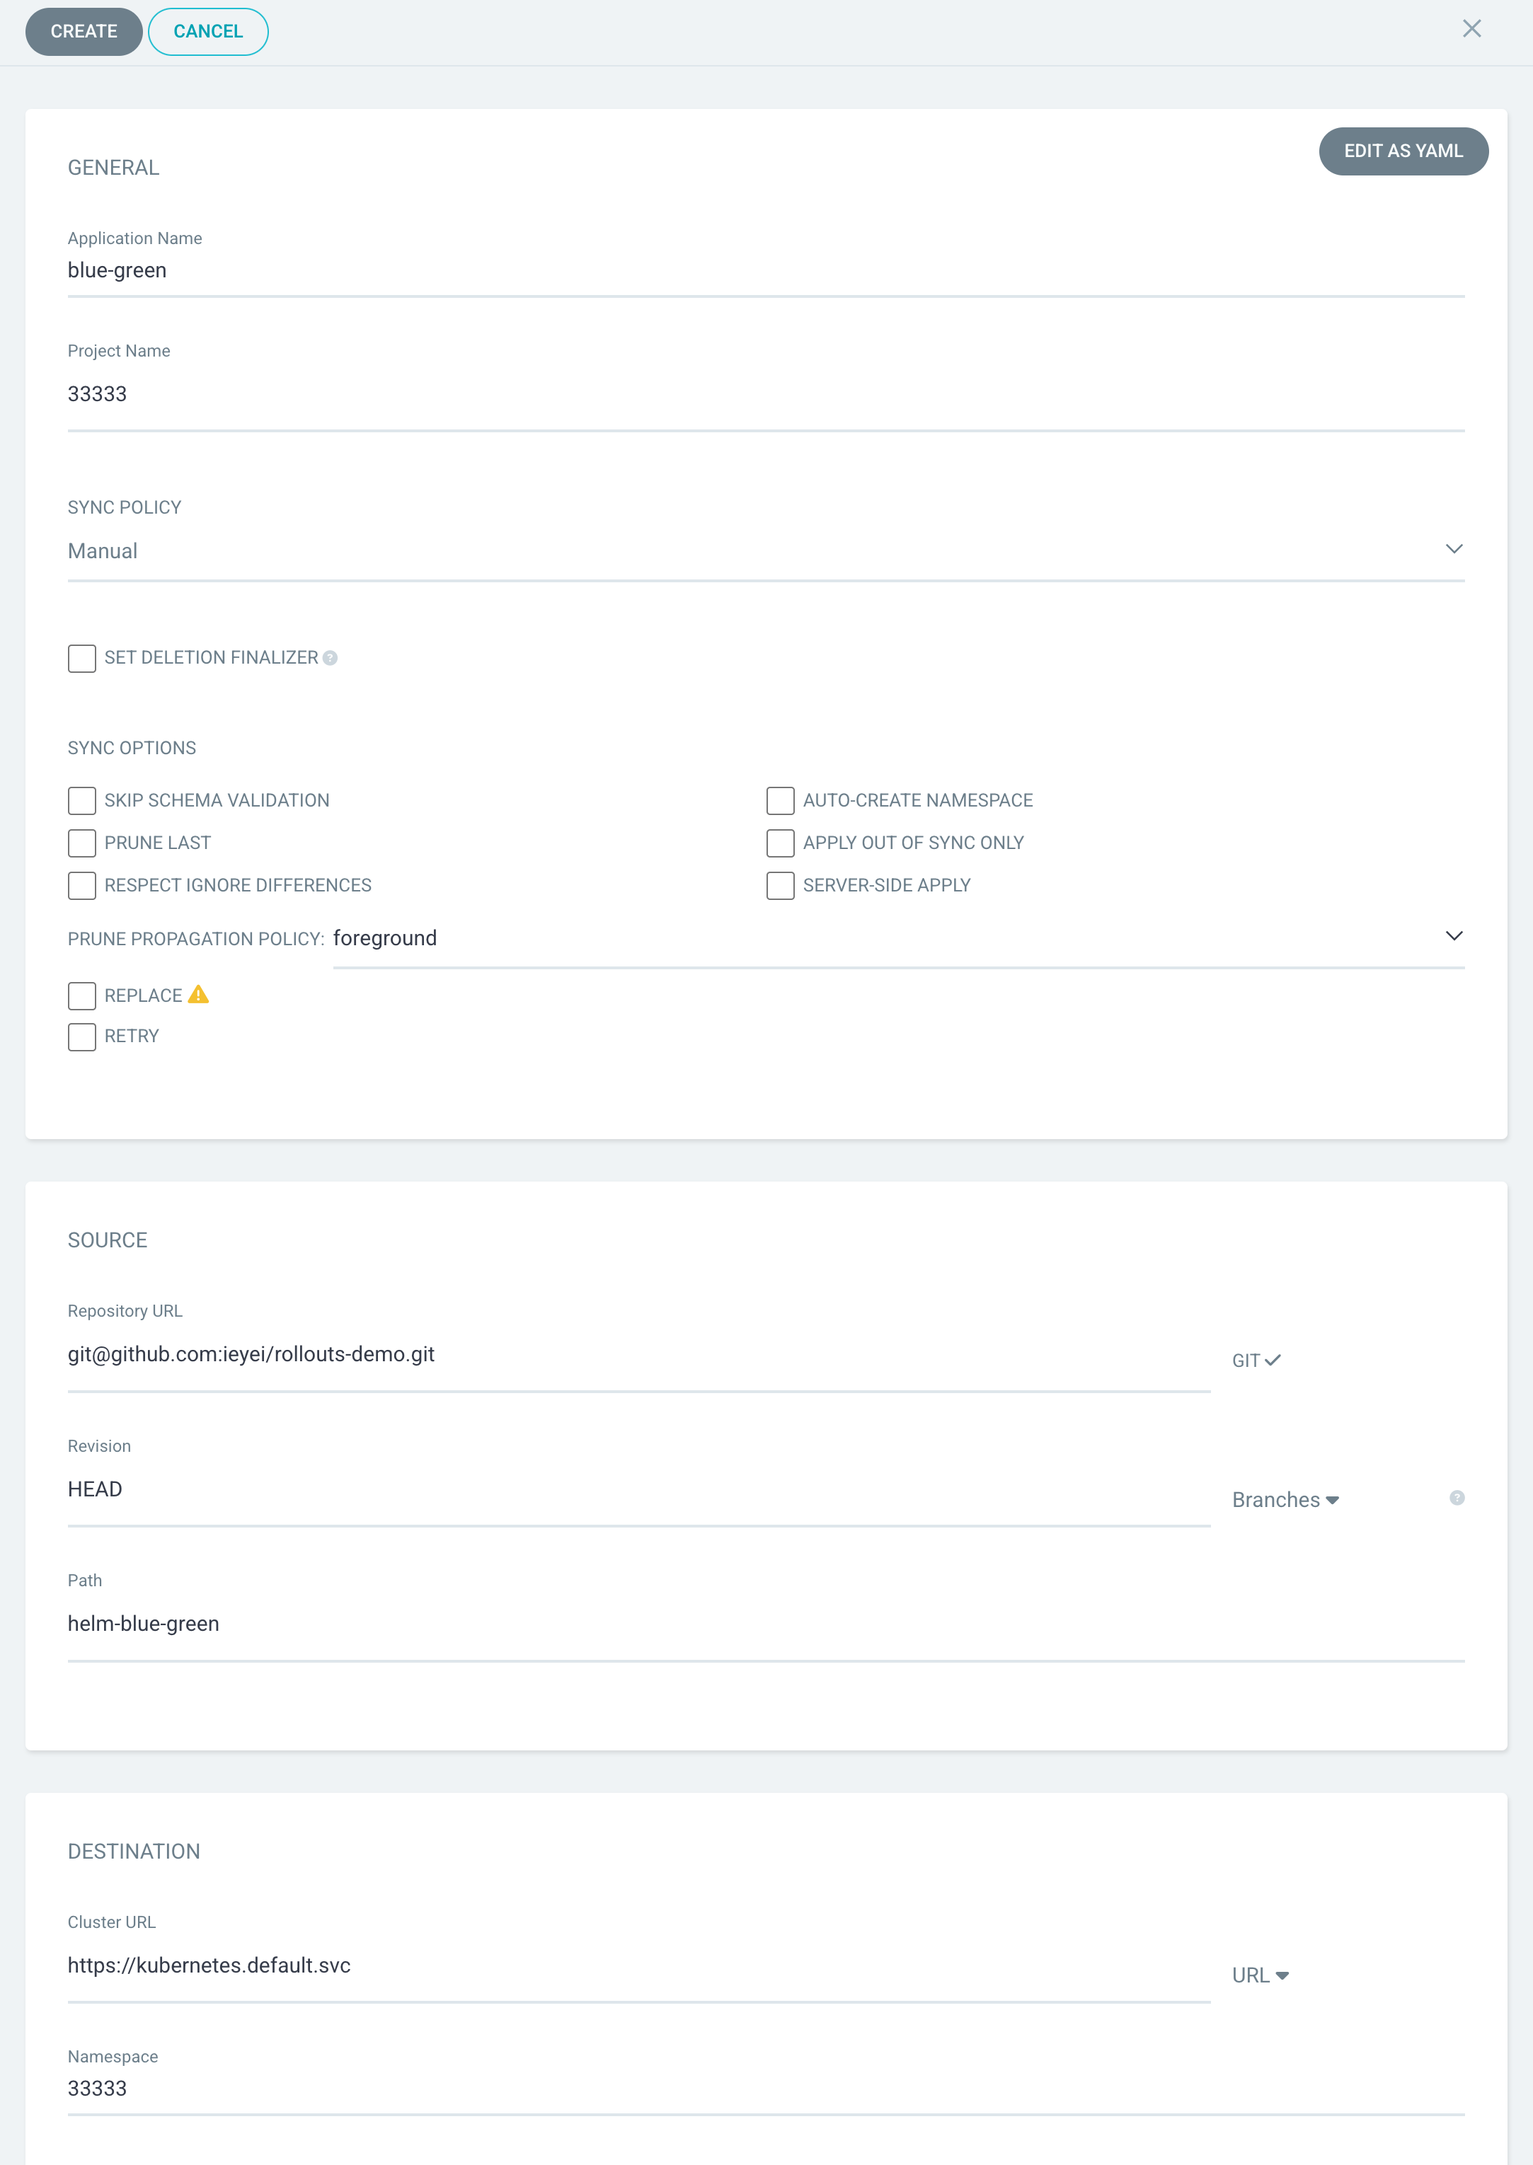
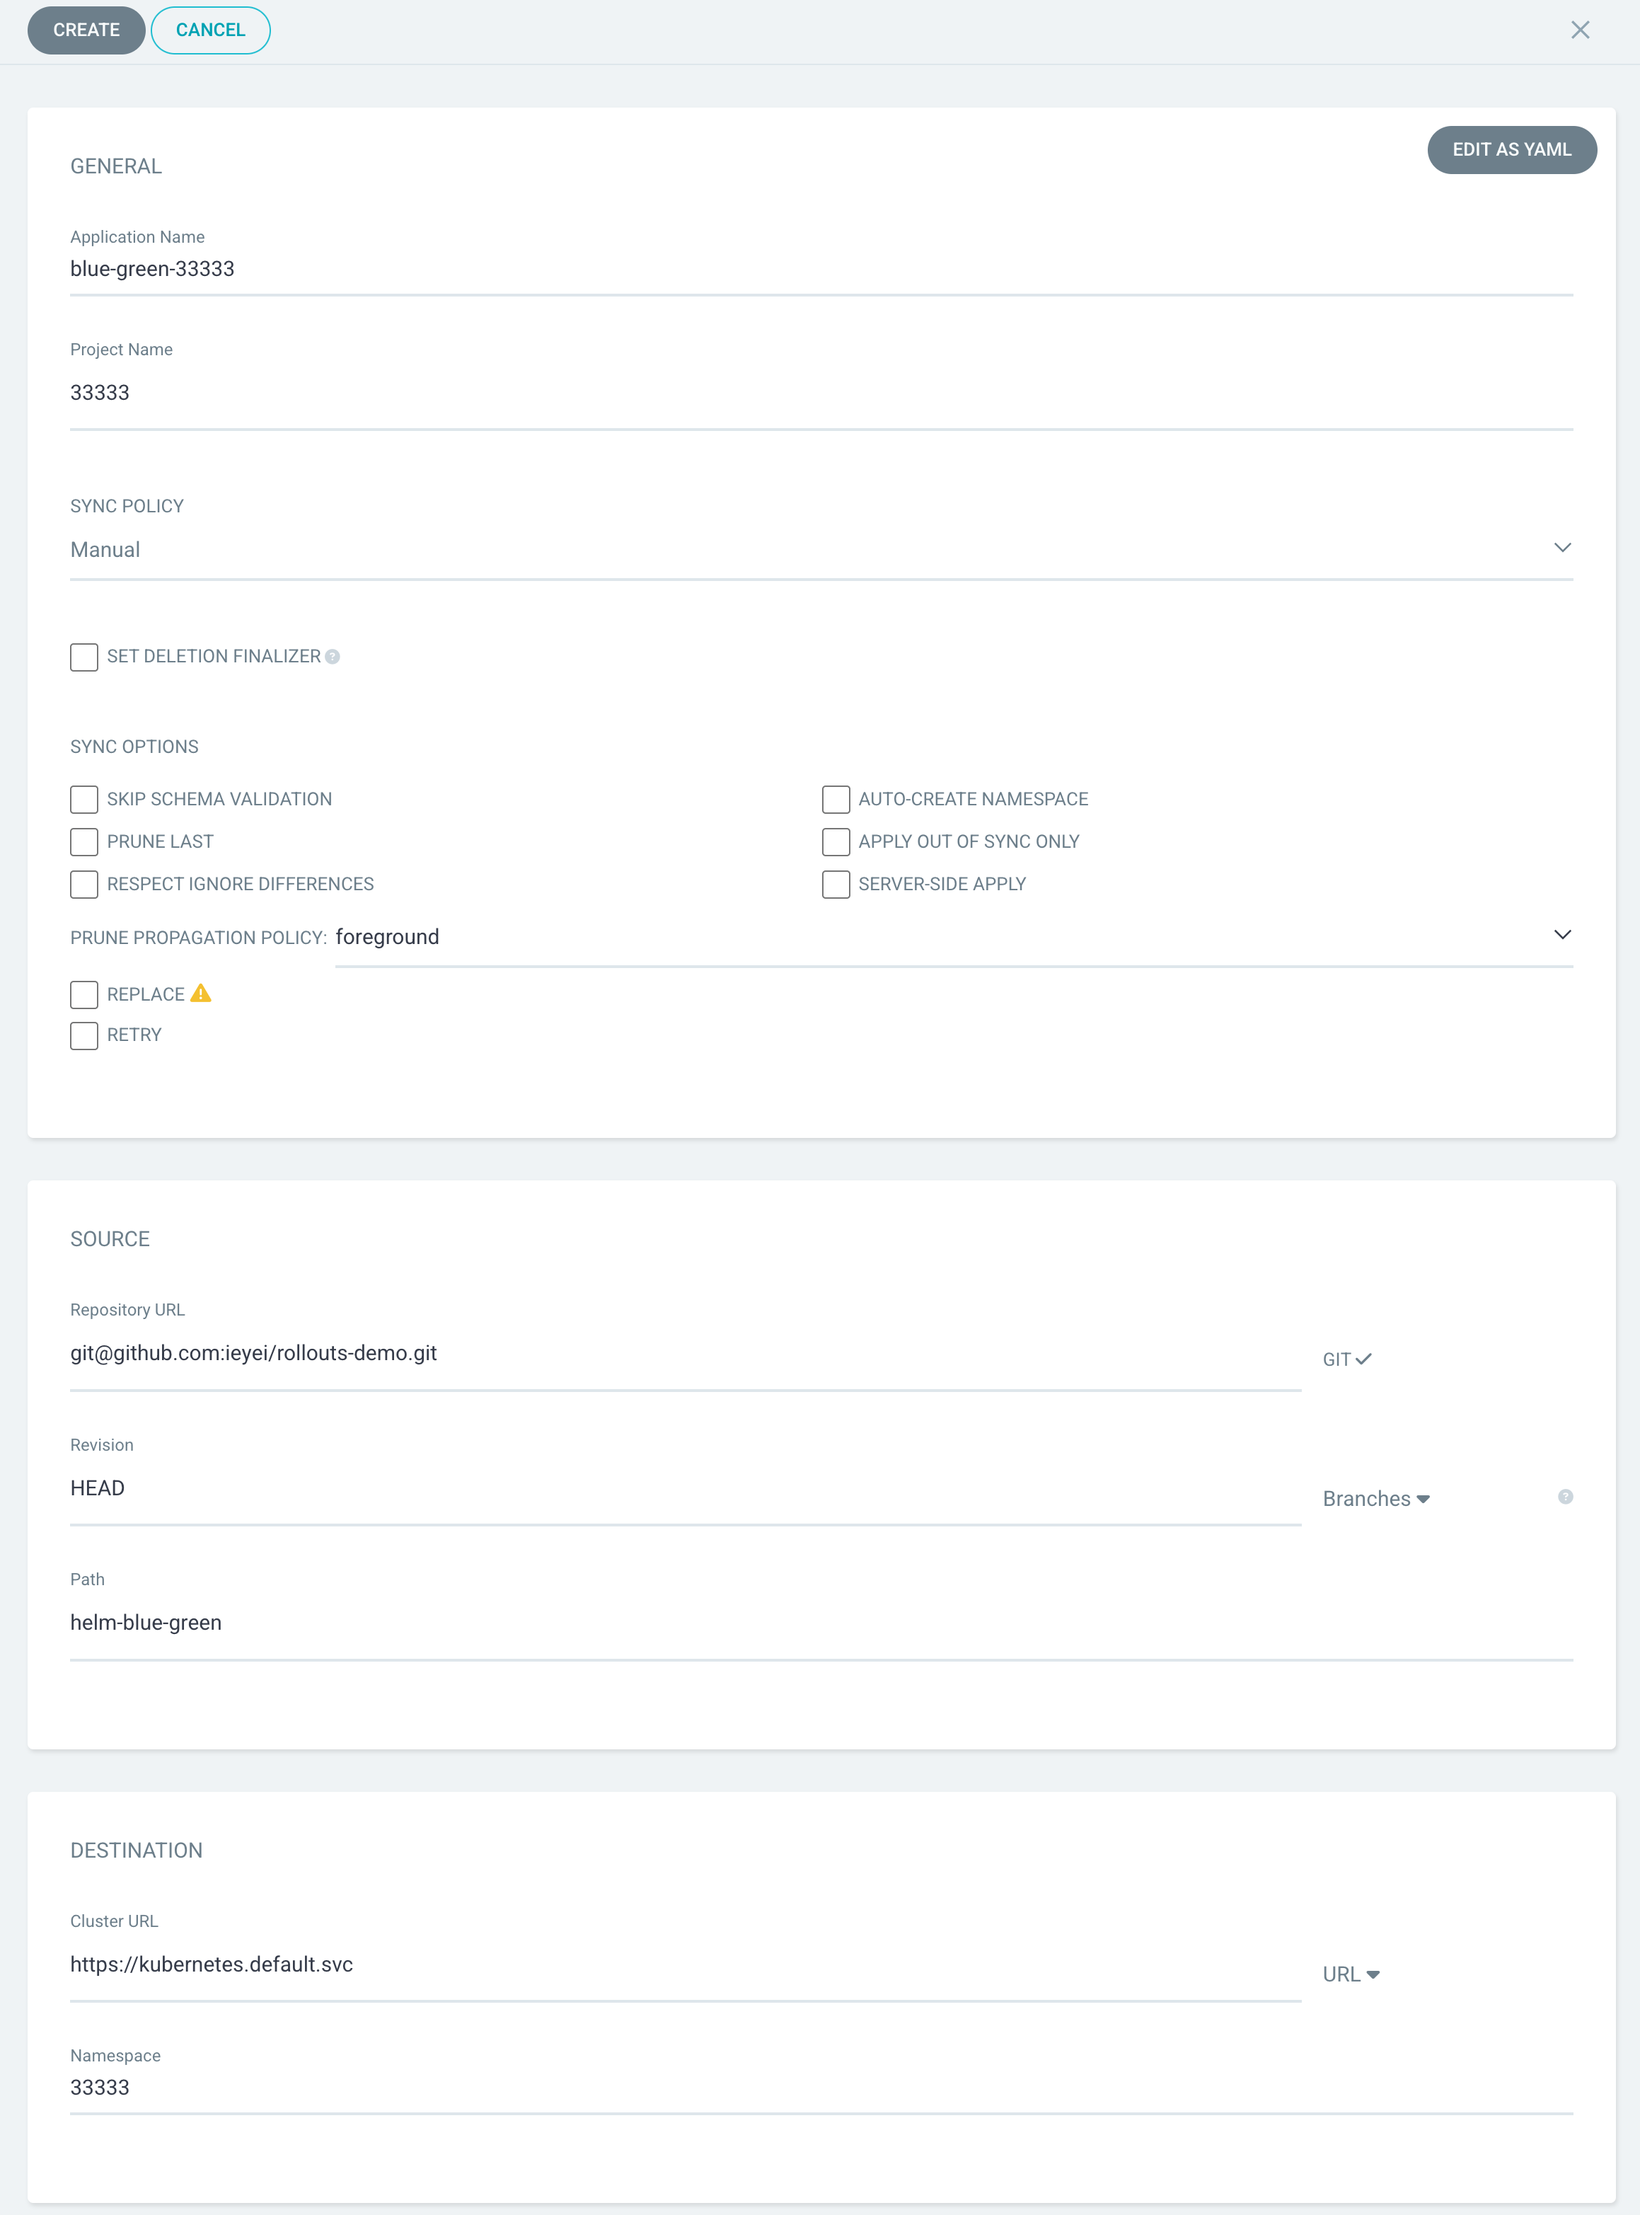
bug fix

diff --git a/docs/7-2-argocd.md b/docs/7-2-argocd.md
@@ -43,7 +43,7 @@ echo $MY_ID
 
 ```
 mspmanager:~/environment $ echo $MY_ID
-22222
+33333
 ```
 
 ### 0-3. namespace 생성
@@ -56,6 +56,18 @@ kubectl create ns $MY_ID
 ```bash
 kubectl config set-context --current --namespace $MY_ID
 ```
+
+### 0-5. Kubectl Plugin 설치
+kubectl 플러그인은 명령줄에서 롤아웃을 관리하고 시각화하는 데 편리합니다.
+```bash
+curl -LO https://github.com/argoproj/argo-rollouts/releases/latest/download/kubectl-argo-rollouts-linux-amd64
+
+chmod +x ./kubectl-argo-rollouts-linux-amd64
+
+sudo mv ./kubectl-argo-rollouts-linux-amd64 /usr/local/bin/kubectl-argo-rollouts
+```
+
+
 
 <br>
 
@@ -381,14 +393,14 @@ cat ~/.ssh/id_ed25519
 
 ** [입력]**
 
-> | 항목                         | 내용                             | 액션                                   |
-> | ---------------------------- | -------------------------------- | -------------------------------------- |
-> | ➕ Application Name          | `rollouts-demo-<<사번>>`                  | Copy & Paste                    |
-> | ➕ Project Name              | `<<나의 Project>>`               | 윗챕터에서 만든 프로젝트를 선택합니다. |
+> | 항목                         | 내용                               | 액션                                   |
+> | ---------------------------- |----------------------------------| -------------------------------------- |
+> | ➕ Application Name          | `rollouts-demo-<<사번>>`           | Copy & Paste                    |
+> | ➕ Project Name              | `<<나의 Project>>`                 | 윗챕터에서 만든 프로젝트를 선택합니다. |
 > | ➕ SOURCE > Repo url         | `<<rollouts-demo repo url>>`     | 드롭박스 선택                        |
-> | ➕ SOURCE > Path             | `.`                              | Copy & Paste                    |
+> | ➕ SOURCE > Path             | `canary`                         | Copy & Paste                    |
 > | ➕ DESTINATION > Cluster URL | `https://kubernetes.default.svc` | 드롭박스 선택                        |
-> | ➕ DESTINATION > Namespace   | `<<사번>>`                       | Copy & Paste                    |
+> | ➕ DESTINATION > Namespace   | `<<사번>>`                         | Copy & Paste                    |
 
 ![](../images/253-1.png)
 
@@ -573,7 +585,8 @@ argocd ui로 promote 진행 확인
 Yellow 버전으로 변경된 사항 확인
 ![](../images/231-3.png)
 
-
+### Canary application 삭제
+![](../images/231-4.png)
 
 ## 9. Argo Rollout Blue Green 배포
 
@@ -817,14 +830,14 @@ git push
 
 ### Application 등록  
 입력 항목
-> | 항목                              | 내용                            |
-> |---------------------------------|-------------------------------|
-> | ➕ Application Name              | `blue-green`                     |
-> | ➕ Project Name                  | `<<나의 Project>>`              |
-> | ➕ Repository URL                | `<<rollouts-demo repo의 url>>` |
-> | ➕ Path                          | `helm-blue-green`              |
-> | ➕ Cluster URL                   | `https://kubernetes.default.svc`|
-> | ➕ Namespace                     | `<< My_ID >>`|
+> | 항목                              | 내용                               |
+> |---------------------------------|----------------------------------|
+> | ➕ Application Name              | `blue-green-<<사번>>`              |
+> | ➕ Project Name                  | `<<나의 Project>>`                 |
+> | ➕ Repository URL                | `<<rollouts-demo repo의 url>>`    |
+> | ➕ Path                          | `helm-blue-green`                |
+> | ➕ Cluster URL                   | `https://kubernetes.default.svc` |
+> | ➕ Namespace                     | `<< My_ID >>`                    |
 
 
 ![](../images/255.png)
@@ -839,10 +852,10 @@ Ingress 화살표 클릭
 
 cloud9 에서 rollout 확인
 ```bash
-kubectl argo rollouts get rollout blue-green-helm-guestbook
+kubectl argo rollouts get rollout blue-green-$MY_ID-helm-guestbook
 ```
 ```bash
-Name:            blue-green-helm-guestbook
+Name:            blue-green-33333-helm-guestbook
 Namespace:       33333
 Status:          ✔ Healthy
 Strategy:        BlueGreen
@@ -855,10 +868,10 @@ Replicas:
   Available:     1
 
 NAME                                                   KIND        STATUS     AGE   INFO
-⟳ blue-green-helm-guestbook                            Rollout     ✔ Healthy  8m7s  
+⟳ blue-green-33333-helm-guestbook                            Rollout     ✔ Healthy  8m7s  
 └──# revision:1                                                                     
-   └──⧉ blue-green-helm-guestbook-6c7fb8b69d           ReplicaSet  ✔ Healthy  8m7s  stable,active
-      └──□ blue-green-helm-guestbook-6c7fb8b69d-m2vh6  Pod         ✔ Running  8m7s  ready:1/1
+   └──⧉ blue-green-33333-helm-guestbook-6c7fb8b69d           ReplicaSet  ✔ Healthy  8m7s  stable,active
+      └──□ blue-green-33333-helm-guestbook-6c7fb8b69d-m2vh6  Pod         ✔ Running  8m7s  ready:1/1
 
 ```
 
@@ -878,11 +891,11 @@ SYNC > SYNCHRONIZE 클릭
 
 cloud9 에서 rollout 확인
 ```bash
-kubectl argo rollouts get rollout blue-green-helm-guestbook
+kubectl argo rollouts get rollout blue-green-$MY_ID-helm-guestbook
 ```
 
 ```bash
-Name:            blue-green-helm-guestbook
+Name:            blue-green-33333-helm-guestbook
 Namespace:       33333
 Status:          ॥ Paused
 Message:         BlueGreenPause
@@ -897,13 +910,13 @@ Replicas:
   Available:     1
 
 NAME                                                   KIND        STATUS     AGE  INFO
-⟳ blue-green-helm-guestbook                            Rollout     ॥ Paused   10m  
+⟳ blue-green-33333-helm-guestbook                            Rollout     ॥ Paused   10m  
 ├──# revision:2                                                                    
-│  └──⧉ blue-green-helm-guestbook-5fdf65765f           ReplicaSet  ✔ Healthy  35s  preview
-│     └──□ blue-green-helm-guestbook-5fdf65765f-bwmn9  Pod         ✔ Running  35s  ready:1/1
+│  └──⧉ blue-green-33333-helm-guestbook-5fdf65765f           ReplicaSet  ✔ Healthy  35s  preview
+│     └──□ blue-green-33333-helm-guestbook-5fdf65765f-bwmn9  Pod         ✔ Running  35s  ready:1/1
 └──# revision:1                                                                    
-   └──⧉ blue-green-helm-guestbook-6c7fb8b69d           ReplicaSet  ✔ Healthy  10m  stable,active
-      └──□ blue-green-helm-guestbook-6c7fb8b69d-m2vh6  Pod         ✔ Running  10m  ready:1/1
+   └──⧉ blue-green-33333-helm-guestbook-6c7fb8b69d           ReplicaSet  ✔ Healthy  10m  stable,active
+      └──□ blue-green-33333-helm-guestbook-6c7fb8b69d-m2vh6  Pod         ✔ Running  10m  ready:1/1
 ```
 
 Promote
@@ -913,11 +926,11 @@ rollout > Promote-Full > OK
 
 cloud9 에서 rollout 확인
 ```bash
-kubectl argo rollouts get rollout blue-green-helm-guestbook
+kubectl argo rollouts get rollout blue-green-$MY_ID-helm-guestbook
 ```
 
 ```bash
-Name:            blue-green-helm-guestbook
+Name:            blue-green-33333-helm-guestbook
 Namespace:       33333
 Status:          ✔ Healthy
 Strategy:        BlueGreen
@@ -931,13 +944,13 @@ Replicas:
   Available:     1
 
 NAME                                                   KIND        STATUS     AGE    INFO
-⟳ blue-green-helm-guestbook                            Rollout     ✔ Healthy  14m    
+⟳ blue-green-33333-helm-guestbook                            Rollout     ✔ Healthy  14m    
 ├──# revision:2                                                                      
-│  └──⧉ blue-green-helm-guestbook-5fdf65765f           ReplicaSet  ✔ Healthy  4m11s  stable,active
-│     └──□ blue-green-helm-guestbook-5fdf65765f-bwmn9  Pod         ✔ Running  4m11s  ready:1/1
+│  └──⧉ blue-green-33333-helm-guestbook-5fdf65765f           ReplicaSet  ✔ Healthy  4m11s  stable,active
+│     └──□ blue-green-33333-helm-guestbook-5fdf65765f-bwmn9  Pod         ✔ Running  4m11s  ready:1/1
 └──# revision:1                                                                      
-   └──⧉ blue-green-helm-guestbook-6c7fb8b69d           ReplicaSet  ✔ Healthy  14m    delay:7s
-      └──□ blue-green-helm-guestbook-6c7fb8b69d-m2vh6  Pod         ✔ Running  14m    ready:1/1
+   └──⧉ blue-green-33333-helm-guestbook-6c7fb8b69d           ReplicaSet  ✔ Healthy  14m    delay:7s
+      └──□ blue-green-33333-helm-guestbook-6c7fb8b69d-m2vh6  Pod         ✔ Running  14m    ready:1/1
 ```
 
 ![](../images/258.png)
@@ -955,11 +968,11 @@ HISTORY AND ROLLBACK > 이전 버전 선택 후 Rollback
 
 cloud9 에서 rollout 확인
 ```bash
-kubectl argo rollouts get rollout blue-green-helm-guestbook
+kubectl argo rollouts get rollout blue-green-$MY_ID-helm-guestbook
 ```
 
 ```bash
-Name:            blue-green-helm-guestbook
+Name:            blue-green-33333-helm-guestbook
 Namespace:       33333
 Status:          ॥ Paused
 Message:         BlueGreenPause
@@ -974,13 +987,13 @@ Replicas:
   Available:     1
 
 NAME                                                   KIND        STATUS     AGE  INFO
-⟳ blue-green-helm-guestbook                            Rollout     ॥ Paused   35m  
+⟳ blue-green-33333-helm-guestbook                            Rollout     ॥ Paused   35m  
 ├──# revision:3                                                                    
-│  └──⧉ blue-green-helm-guestbook-6c7fb8b69d           ReplicaSet  ✔ Healthy  35m  preview
-│     └──□ blue-green-helm-guestbook-6c7fb8b69d-bmk2k  Pod         ✔ Running  25s  ready:1/1
+│  └──⧉ blue-green-33333-helm-guestbook-6c7fb8b69d           ReplicaSet  ✔ Healthy  35m  preview
+│     └──□ blue-green-33333-helm-guestbook-6c7fb8b69d-bmk2k  Pod         ✔ Running  25s  ready:1/1
 └──# revision:2                                                                    
-   └──⧉ blue-green-helm-guestbook-5fdf65765f           ReplicaSet  ✔ Healthy  25m  stable,active
-      └──□ blue-green-helm-guestbook-5fdf65765f-bwmn9  Pod         ✔ Running  25m  ready:1/1
+   └──⧉ blue-green-33333-helm-guestbook-5fdf65765f           ReplicaSet  ✔ Healthy  25m  stable,active
+      └──□ blue-green-33333-helm-guestbook-5fdf65765f-bwmn9  Pod         ✔ Running  25m  ready:1/1
 ```
 
 Promote
@@ -990,11 +1003,11 @@ rollout > Promote-Full > OK
 
 cloud9 에서 rollout 확인
 ```bash
-kubectl argo rollouts get rollout blue-green-helm-guestbook
+kubectl argo rollouts get rollout blue-green-$MY_ID-helm-guestbook
 ```
 
 ```bash
-Name:            blue-green-helm-guestbook
+Name:            blue-green-33333-helm-guestbook
 Namespace:       33333
 Status:          ✔ Healthy
 Strategy:        BlueGreen
@@ -1008,13 +1021,13 @@ Replicas:
   Available:     1
 
 NAME                                                   KIND        STATUS     AGE   INFO
-⟳ blue-green-helm-guestbook                            Rollout     ✔ Healthy  39m   
+⟳ blue-green-33333-helm-guestbook                            Rollout     ✔ Healthy  39m   
 ├──# revision:5                                                                     
-│  └──⧉ blue-green-helm-guestbook-6c7fb8b69d           ReplicaSet  ✔ Healthy  39m   stable,active
-│     └──□ blue-green-helm-guestbook-6c7fb8b69d-smrxg  Pod         ✔ Running  101s  ready:1/1
+│  └──⧉ blue-green-33333-helm-guestbook-6c7fb8b69d           ReplicaSet  ✔ Healthy  39m   stable,active
+│     └──□ blue-green-33333-helm-guestbook-6c7fb8b69d-smrxg  Pod         ✔ Running  101s  ready:1/1
 └──# revision:4                                                                     
-   └──⧉ blue-green-helm-guestbook-5fdf65765f           ReplicaSet  ✔ Healthy  29m   delay:14s
-      └──□ blue-green-helm-guestbook-5fdf65765f-bwmn9  Pod         ✔ Running  29m   ready:1/1
+   └──⧉ blue-green-33333-helm-guestbook-5fdf65765f           ReplicaSet  ✔ Healthy  29m   delay:14s
+      └──□ blue-green-33333-helm-guestbook-5fdf65765f-bwmn9  Pod         ✔ Running  29m   ready:1/1
 ```
 
 ![](../images/256.png)
